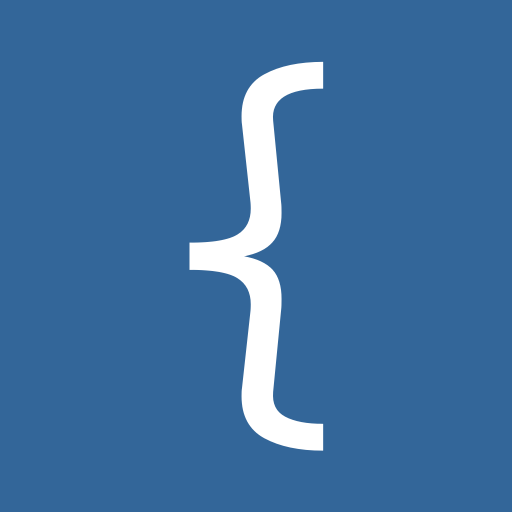
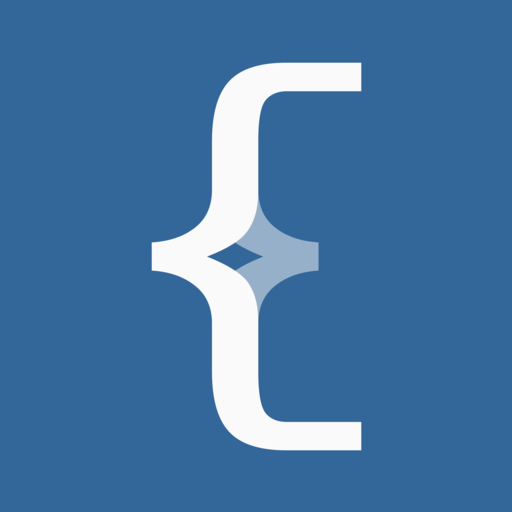
Updating image, adding link

Changed region(s): [[0.2812, 0.0938, 0.7188, 0.9062]]

diff --git a/_layouts/splash.html b/_layouts/splash.html
@@ -1,10 +1,16 @@
 <!DOCTYPE html>
-<html lang="{{ page.lang | default: site.lang | default: "en" }}">
-
+<html lang="{{ page.lang | default: site.lang | default: 'en' }}">
   {%- include head.html -%}
 
-  <body style="background-color: #336699; background-image: url('/assets/images/consequentialtech.png'); background-repeat: no-repeat; background-attachment: fixed; background-position: center;">
-
-  </body>
-
+  <body
+    style="
+      background-color: #336699;
+      background-image: url('/assets/images/consequentialtech.png');
+      background-repeat: no-repeat;
+      background-attachment: fixed;
+      background-position: center;
+      background-size: contain;
+    "
+    onclick="window.location.href='https://www.linkedin.com/in/drwahl/';"
+  ></body>
 </html>
